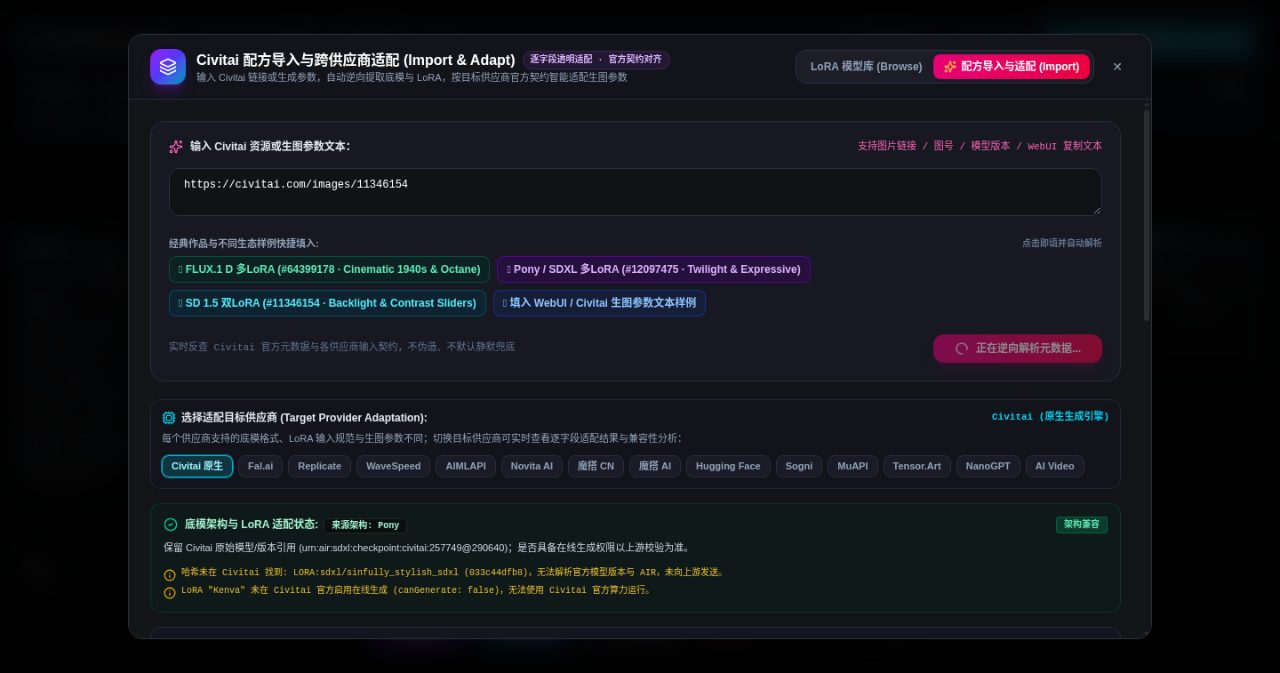
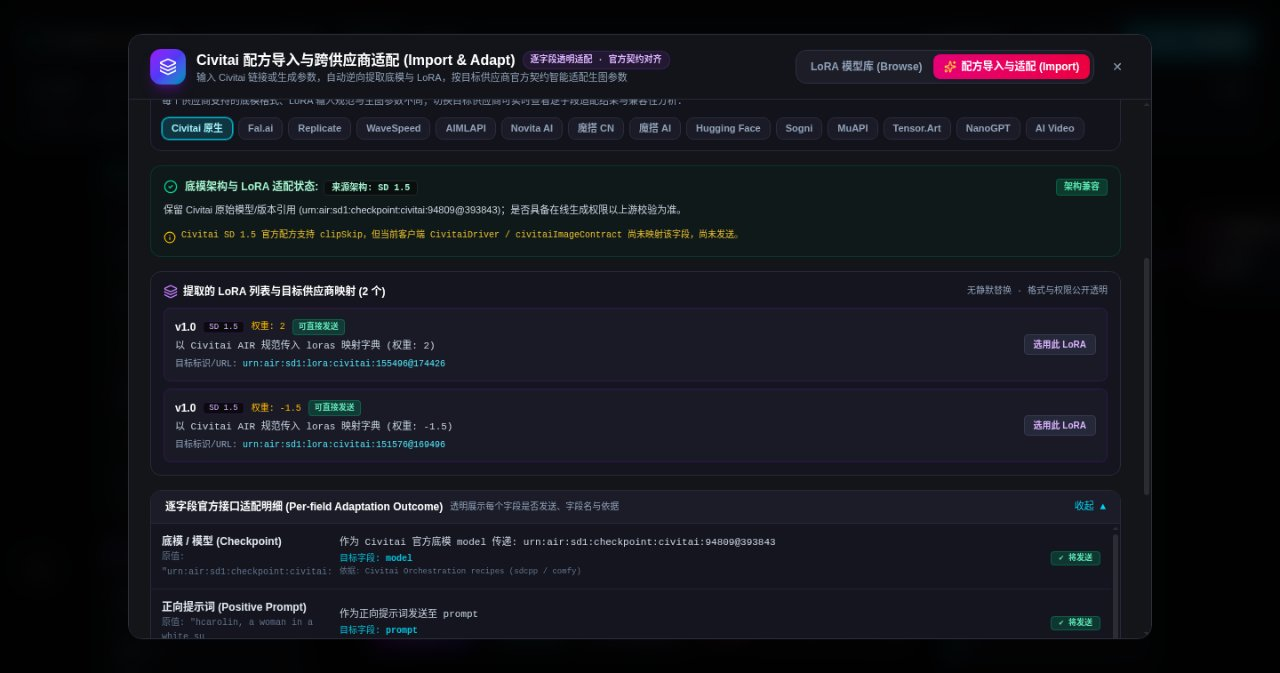
fix(civitai): recapture fully settled SD1.5 preview, fix unmapped sampler fallback to unsupported, and update doc sample 3

diff --git a/src/utils/civitaiImportMap.ts b/src/utils/civitaiImportMap.ts
@@ -1050,16 +1050,24 @@ export function adaptCivitaiRecipeToProvider(
   const schedulerVal = recipe.scheduler || '';
   if (provider === 'civitai') {
     const isComfy = (recipe.engine || '').toLowerCase() === 'comfy';
-    const mappedSampler = mapSampler(samplerVal, isComfy ? 'comfy' : 'sdcpp') || samplerVal;
+    const mapped = mapSampler(samplerVal, isComfy ? 'comfy' : 'sdcpp');
+    const isUnmapped = Boolean(samplerVal && !mapped);
+    const mappedSampler = mapped;
     fields.sampler = {
       field: 'sampler',
       originalValue: samplerVal,
       targetField: isComfy ? 'sampler' : 'sampleMethod',
-      mappedValue: mappedSampler,
-      status: samplerVal ? 'mapped' : 'not_applicable',
-      humanMessage: `按 Civitai 引擎映射为 ${isComfy ? 'sampler (comfy)' : 'sampleMethod (sdcpp)'}: ${mappedSampler || '默认'}`,
+      mappedValue: mappedSampler || undefined,
+      status: isUnmapped ? 'unsupported' : (samplerVal ? 'mapped' : 'not_applicable'),
+      humanMessage: isUnmapped
+        ? `采样器 "${samplerVal}" 不在 Civitai ${isComfy ? 'Comfy' : 'sdcpp'} 官方枚举内，未映射；上游请求不会发送此未知采样器。`
+        : `按 Civitai 引擎映射为 ${isComfy ? 'sampler (comfy)' : 'sampleMethod (sdcpp)'}: ${mappedSampler || '默认'}`,
       source: 'https://developer.civitai.com/orchestration/recipes/sdxl.md',
     };
+    if (isUnmapped) {
+      unsupportedFields.push('sampler');
+      warnings.push(`采样器 "${samplerVal}" 未在 Civitai 官方枚举中，未映射。`);
+    }
     fields.scheduler = {
       field: 'scheduler',
       originalValue: schedulerVal,

diff --git a/src/utils/civitaiImportMap.adaptation.test.ts b/src/utils/civitaiImportMap.adaptation.test.ts
@@ -433,5 +433,19 @@ describe('Cross-Provider Civitai Recipe Adaptation Engine', () => {
       const result = adaptCivitaiRecipeToProvider(recipeWithHash404, 'civitai');
       expect(result.warnings).toContain('哈希未在 Civitai 找到: LORA:sdxl/sinfully_stylish_sdxl (033c44dfb8)');
     });
+
+    it('P2-1 (Round 4): unmapped sampler is marked unsupported and not mapped as will-send', () => {
+      const unmappedRecipe: CivitaiRecipeInput = {
+        baseModel: 'SDXL 1.0',
+        sampler: 'totally_unknown_custom',
+        engine: 'sdcpp',
+      };
+      const result = adaptCivitaiRecipeToProvider(unmappedRecipe, 'civitai');
+      expect(result.fields.sampler.status).toBe('unsupported');
+      expect(result.fields.sampler.mappedValue).toBeUndefined();
+      expect(result.fields.sampler.humanMessage).toContain('不在 Civitai sdcpp 官方枚举内，未映射');
+      expect(result.unsupportedFields).toContain('sampler');
+      expect(result.warnings.some((w) => w.includes('未在 Civitai 官方枚举中'))).toBe(true);
+    });
   });
 });

diff --git a/docs/evidence/2026-11-05/civitai-import.md b/docs/evidence/2026-11-05/civitai-import.md
@@ -308,7 +308,7 @@
 | :--- | :--- | :--- | :--- | :--- |
 | **样例 1** | `https://civitai.com/images/64399178`<br>作者: `L10n_H34r7` | **FLUX.1 D** | 1. `Cinematic 1940s` (weight: 0.3, id: 1527024)<br>2. `Cinematic Octane` (weight: 0.2, id: 1526912) | 1. Civitai 原生适配：底模引用保留，LoRA 转为规范 AIR，负向提示词拦截（FLUX 官方配方无负向）。截图：`docs/evidence/2026-11-05/civitai-import/e2e-01-flux-preview.jpg`<br>2. 画布应用：2 款 LoRA 链式串联为 LoRALoader 节点。截图：`docs/evidence/2026-11-05/civitai-import/e2e-02-flux-applied-canvas.jpg`<br>3. Fal.ai 适配：底模选择 `fal-ai/flux-lora`，LoRA 转为官方公开下载直链，步数与尺寸映射完整。 |
 | **样例 2** | `https://civitai.com/images/12097475`<br>作者: `Stellaaa` | **Pony / SDXL** | 1. `pony/twilight_style` (weight: 0.8)<br>2. `pony/expressiveh` (weight: 0.8)<br>3. `pony/kenva` (weight: 0.8, canGenerate: false)<br>4. `pony/san_pony_v4`<br>5. `sdxl/sinfully_stylish_sdxl` (404 未找到) | 底模架构通过哈希反查精确识别为 `urn:air:sdxl:checkpoint:civitai:257749@290640` (Pony V6)；Kenva 标识出 `Civitai 未启用在线生成 (canGenerate: false)`；404 哈希 `033c44dfb8` 显式呈现于警告横幅，绝无静默丢弃；未标注权重项标为「需设置强度」且 scale 置为空。预览截图：`docs/evidence/2026-11-05/civitai-import/e2e-06-pony-preview.jpg`；画布串联截图：`docs/evidence/2026-11-05/civitai-import/e2e-07-pony-applied-canvas.jpg`。 |
-| **样例 3** | `https://civitai.com/images/11346154`<br>作者: `hcarolin` | **SD 1.5** | 1. `backlight_slider_v10` (weight: -1.5)<br>2. `contrast_slider_v10` (weight: 2.0) | 底模架构通过哈希反查识别为 SD 1.5 AIR；双滑块 LoRA 及负向权重 `-1.5` 与 `2.0` 分别从 `meta.prompt` 和 `meta.resources` 完整保留；`clipSkip: 2` 保留并支持映射。预览截图：`docs/evidence/2026-11-05/civitai-import/e2e-09-sd15-preview.jpg`；画布截图：`docs/evidence/2026-11-05/civitai-import/e2e-10-sd15-applied-canvas.jpg`。 |
+| **样例 3** | `https://civitai.com/images/11346154`<br>作者: `hcarolin` | **SD 1.5** | 1. `backlight_slider_v10` (weight: -1.5)<br>2. `contrast_slider_v10` (weight: 2.0) | 底模架构通过哈希反查识别为 SD 1.5 AIR；双滑块 LoRA 及负向权重 `-1.5` 与 `2.0` 分别从 `meta.prompt` 和 `meta.resources` 完整保留；`clipSkip: 2` 标记为 `unsupported`（尚未发送，原因：CivitaiDriver / civitaiImageContract 尚未映射 clipSkip）。预览截图：`docs/evidence/2026-11-05/civitai-import/e2e-09-sd15-preview.jpg`；画布截图：`docs/evidence/2026-11-05/civitai-import/e2e-10-sd15-applied-canvas.jpg`。 |
 
 ---
 
